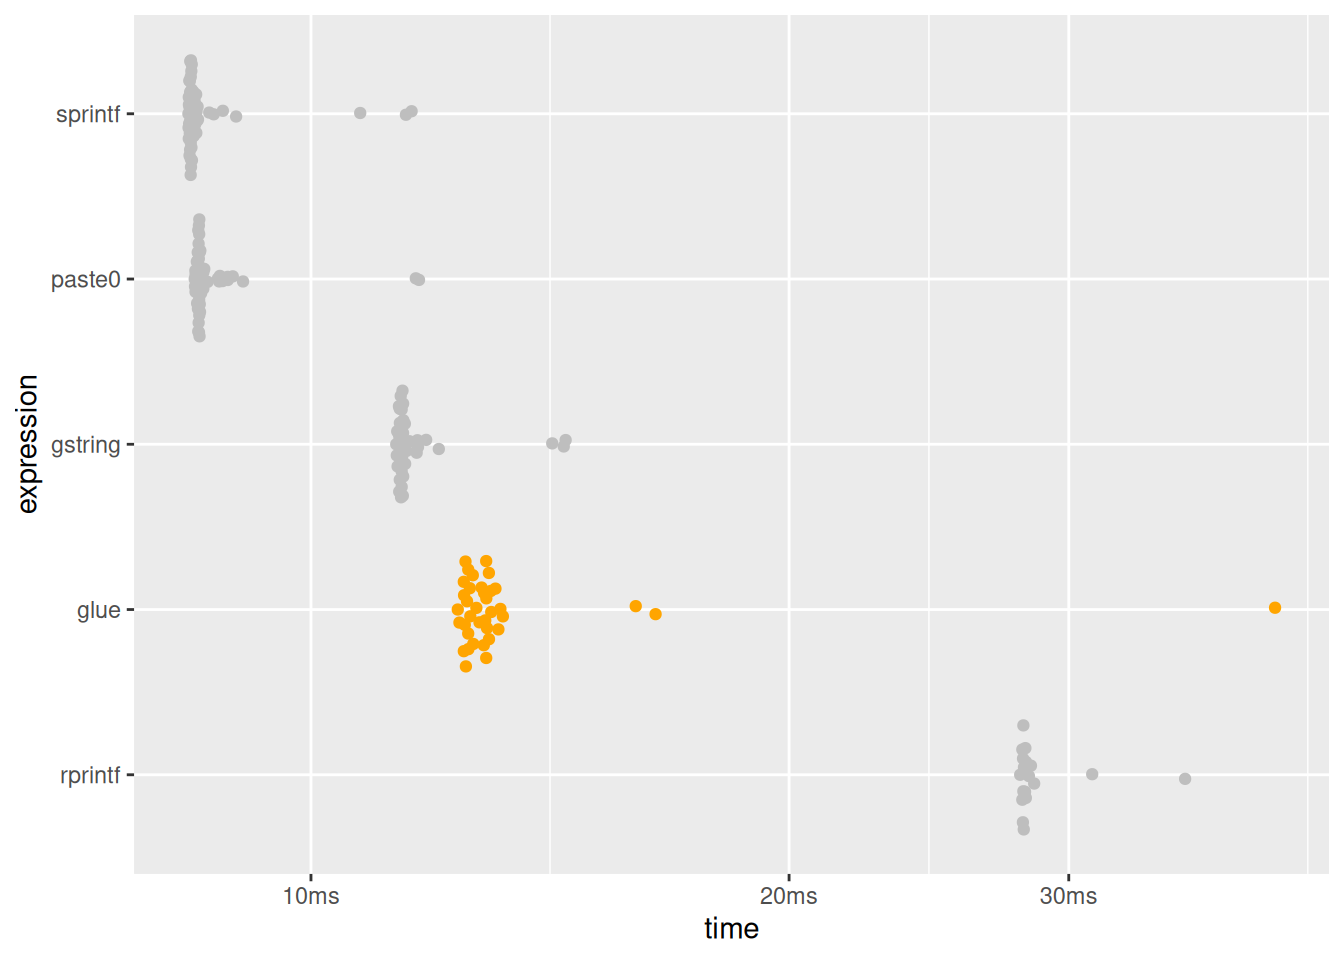
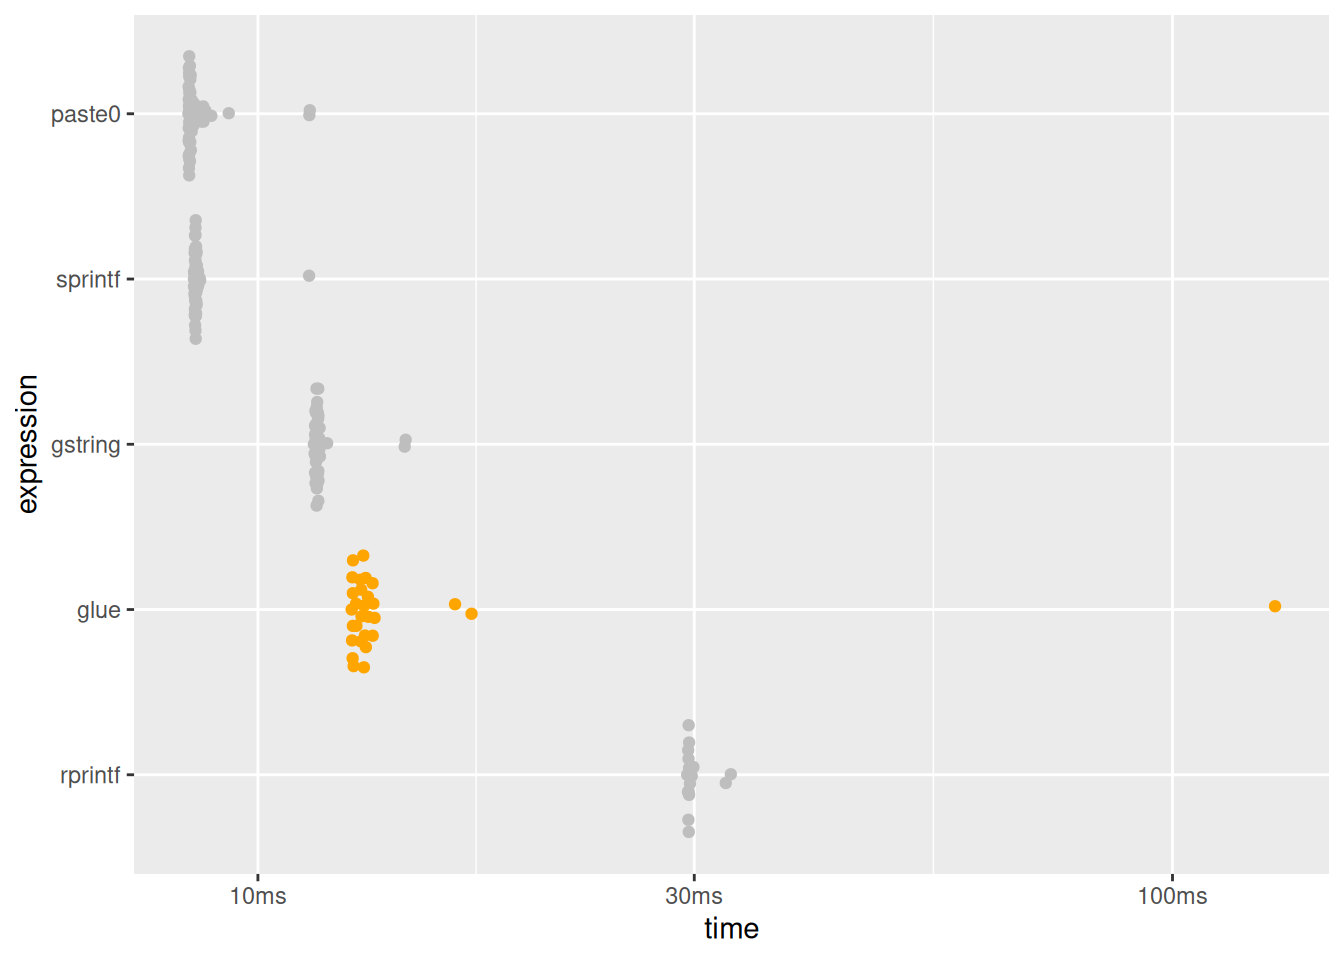
Deploying to gh-pages from @ tidyverse/glue@3089899ad33a3421dafbe1fb20b4d30283ad2794 🚀

diff --git a/articles/speed.html b/articles/speed.html
@@ -147,11 +147,11 @@
 <span><span class="co">#&gt; # A tibble: 5 × 6</span></span>
 <span><span class="co">#&gt;   expression      min   median `itr/sec` mem_alloc `gc/sec`</span></span>
 <span><span class="co">#&gt;   &lt;bch:expr&gt; &lt;bch:tm&gt; &lt;bch:tm&gt;     &lt;dbl&gt; &lt;bch:byt&gt;    &lt;dbl&gt;</span></span>
-<span><span class="co">#&gt; 1 sprintf    721.08ns 762.05ns  1206705.        0B     0   </span></span>
-<span><span class="co">#&gt; 2 paste0       1.39µs   1.52µs   628859.        0B     0   </span></span>
-<span><span class="co">#&gt; 3 glue         93.2µs  98.79µs     9651.  141.56KB    10.3 </span></span>
-<span><span class="co">#&gt; 4 gstring    217.04µs 228.72µs     4256.    2.46MB     6.11</span></span>
-<span><span class="co">#&gt; 5 rprintf    273.34µs 286.52µs     3375.  504.02KB     4.05</span></span>
+<span><span class="co">#&gt; 1 sprintf       751ns  802.1ns  1131655.        0B     0   </span></span>
+<span><span class="co">#&gt; 2 paste0       1.42µs    1.6µs   589384.        0B     0   </span></span>
+<span><span class="co">#&gt; 3 glue        95.94µs    102µs     9251.  141.56KB    10.4 </span></span>
+<span><span class="co">#&gt; 4 gstring    224.03µs  239.2µs     4071.    2.46MB     6.12</span></span>
+<span><span class="co">#&gt; 5 rprintf     280.1µs  293.9µs     3326.  504.02KB     4.05</span></span>
 <span></span>
 <span><span class="co"># plotting function defined in a hidden chunk</span></span>
 <span><span class="fu">plot_comparison</span><span class="op">(</span><span class="va">simple</span><span class="op">)</span></span></code></pre></div>
@@ -188,11 +188,11 @@
 <span><span class="co">#&gt; # A tibble: 5 × 6</span></span>
 <span><span class="co">#&gt;   expression      min   median `itr/sec` mem_alloc `gc/sec`</span></span>
 <span><span class="co">#&gt;   &lt;bch:expr&gt; &lt;bch:tm&gt; &lt;bch:tm&gt;     &lt;dbl&gt; &lt;bch:byt&gt;    &lt;dbl&gt;</span></span>
-<span><span class="co">#&gt; 1 sprintf      8.37ms   8.41ms     118.    781.3KB     4.14</span></span>
-<span><span class="co">#&gt; 2 paste0       8.45ms   8.51ms     117.    781.3KB     4.18</span></span>
-<span><span class="co">#&gt; 3 gstring     11.32ms  11.41ms      86.8    1.53MB     4.24</span></span>
-<span><span class="co">#&gt; 4 glue        12.37ms  12.74ms      78.5    2.29MB     6.92</span></span>
-<span><span class="co">#&gt; 5 rprintf     27.96ms  28.11ms      35.5    3.05MB     4.44</span></span>
+<span><span class="co">#&gt; 1 paste0       8.39ms   8.44ms     118.    781.3KB     4.13</span></span>
+<span><span class="co">#&gt; 2 sprintf      8.51ms   8.55ms     117.    781.3KB     2.02</span></span>
+<span><span class="co">#&gt; 3 gstring     11.51ms   11.6ms      86.1    1.53MB     4.20</span></span>
+<span><span class="co">#&gt; 4 glue        12.66ms  12.97ms      77.1    2.29MB     8.89</span></span>
+<span><span class="co">#&gt; 5 rprintf     29.47ms  29.59ms      33.8    3.05MB     4.50</span></span>
 <span></span>
 <span><span class="co"># plotting function defined in a hidden chunk</span></span>
 <span><span class="fu">plot_comparison</span><span class="op">(</span><span class="va">vectorized</span><span class="op">)</span></span></code></pre></div>

diff --git a/articles/speed.md b/articles/speed.md
@@ -65,11 +65,11 @@ simple |>
 #> # A tibble: 5 × 6
 #>   expression      min   median `itr/sec` mem_alloc `gc/sec`
 #>   <bch:expr> <bch:tm> <bch:tm>     <dbl> <bch:byt>    <dbl>
-#> 1 sprintf    721.08ns 762.05ns  1206705.        0B     0   
-#> 2 paste0       1.39µs   1.52µs   628859.        0B     0   
-#> 3 glue         93.2µs  98.79µs     9651.  141.56KB    10.3 
-#> 4 gstring    217.04µs 228.72µs     4256.    2.46MB     6.11
-#> 5 rprintf    273.34µs 286.52µs     3375.  504.02KB     4.05
+#> 1 sprintf       751ns  802.1ns  1131655.        0B     0   
+#> 2 paste0       1.42µs    1.6µs   589384.        0B     0   
+#> 3 glue        95.94µs    102µs     9251.  141.56KB    10.4 
+#> 4 gstring    224.03µs  239.2µs     4071.    2.46MB     6.12
+#> 5 rprintf     280.1µs  293.9µs     3326.  504.02KB     4.05
 
 # plotting function defined in a hidden chunk
 plot_comparison(simple)
@@ -124,11 +124,11 @@ vectorized |>
 #> # A tibble: 5 × 6
 #>   expression      min   median `itr/sec` mem_alloc `gc/sec`
 #>   <bch:expr> <bch:tm> <bch:tm>     <dbl> <bch:byt>    <dbl>
-#> 1 sprintf      8.37ms   8.41ms     118.    781.3KB     4.14
-#> 2 paste0       8.45ms   8.51ms     117.    781.3KB     4.18
-#> 3 gstring     11.32ms  11.41ms      86.8    1.53MB     4.24
-#> 4 glue        12.37ms  12.74ms      78.5    2.29MB     6.92
-#> 5 rprintf     27.96ms  28.11ms      35.5    3.05MB     4.44
+#> 1 paste0       8.39ms   8.44ms     118.    781.3KB     4.13
+#> 2 sprintf      8.51ms   8.55ms     117.    781.3KB     2.02
+#> 3 gstring     11.51ms   11.6ms      86.1    1.53MB     4.20
+#> 4 glue        12.66ms  12.97ms      77.1    2.29MB     8.89
+#> 5 rprintf     29.47ms  29.59ms      33.8    3.05MB     4.50
 
 # plotting function defined in a hidden chunk
 plot_comparison(vectorized)
